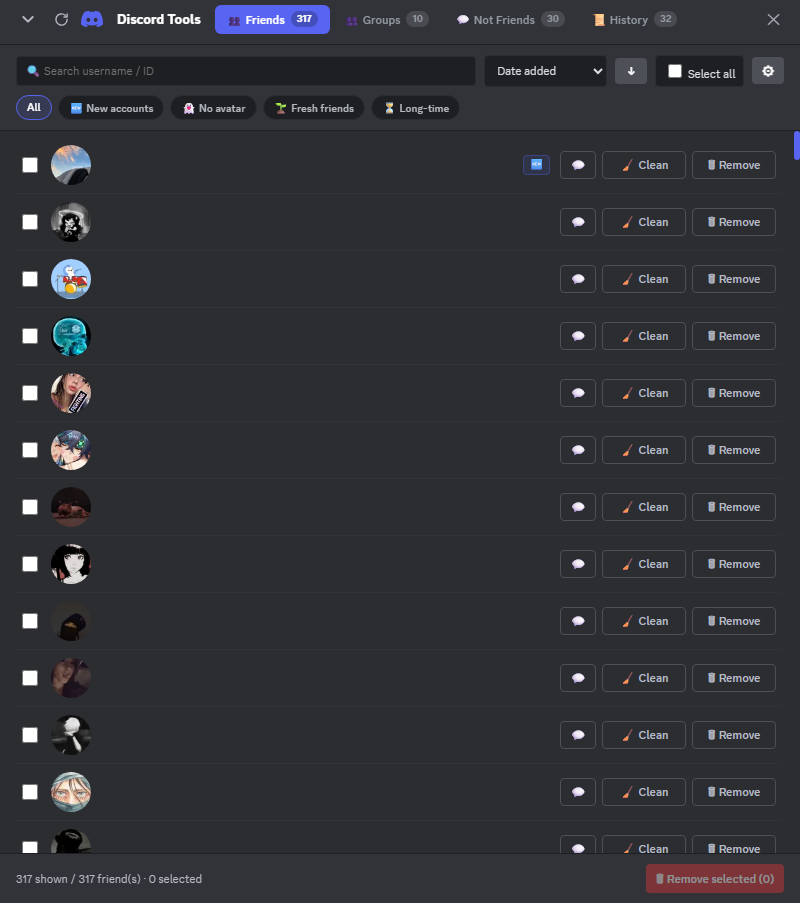
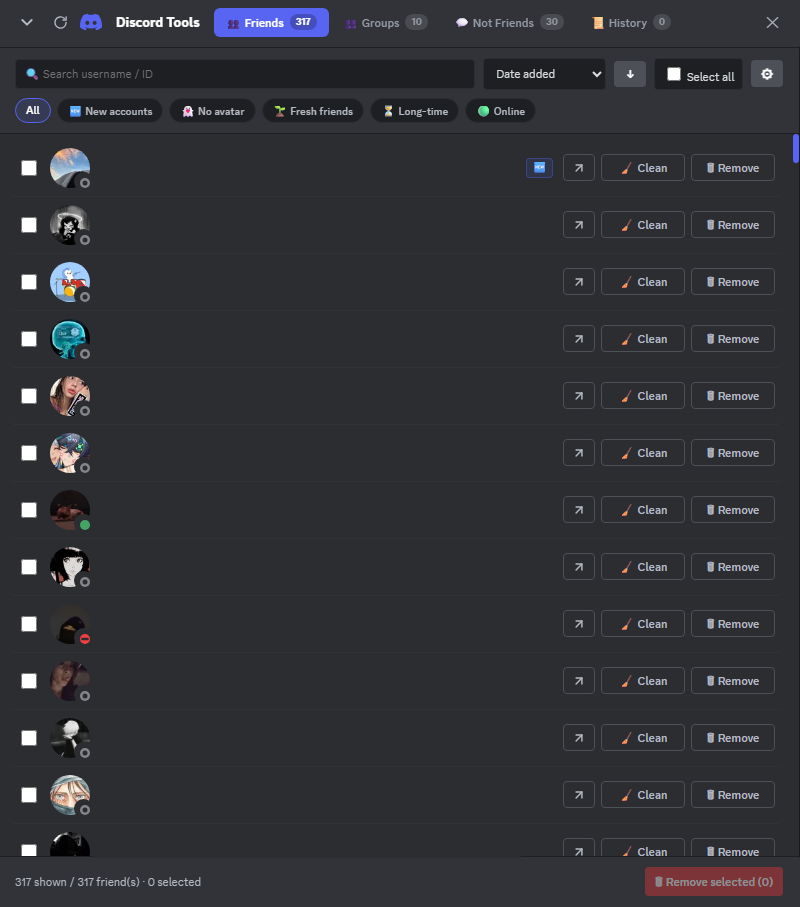
Update

diff --git a/README.md b/README.md
@@ -21,19 +21,26 @@ Clean friends, groups, and DMs — all from a sleek, native-looking panel.
 
 ### 👥 Friends Manager
 - List, search, sort, and filter all your friends
-- Badges for new accounts, fresh friends, long-time friends, no-avatar
+- **Live presence dots** (🟢 Online · 🟡 Idle · 🔴 DND · ⚫ Offline) directly on avatars, refreshed every 15 s
+- Filter chips: All · 🆕 New accounts · 👻 No avatar · 🌱 Fresh friends · ⏳ Long-time · 🟢 Status (cycles online → idle → dnd → offline)
+- Advanced filters: added-after / added-before date range, avatar type (default/custom)
+- Sort by: date added, name, account created, last DM
 - Remove individually or in bulk
 - Optional: clean your DM messages before removing
 - Optional: auto-close the DM in the sidebar
+- Click avatar/name to view profile, or ↗ to open the DM
 
 </td>
 <td width="50%">
 
 ### 👥 Groups Manager
-- List all your group DMs
-- Filter by Solo, Named, Inactive, Recent, Old
-- Leave individually or in bulk (silent mode supported)
-- Optional: delete your messages before leaving
+- List all your group DMs (owned & joined)
+- Filter chips: All · 👤 Solo · ✏ Named · 💤 Inactive (90+ d) · 🆕 Recent · ⏳ Old
+- Advanced filters: created-after / created-before date range, icon type
+- Sort by: date created, last activity, name, members
+- Leave individually or in bulk
+- **🔇 Silent mode** — leave without notifying other members
+- Optional: delete your messages *before* leaving
 
 </td>
 </tr>
@@ -42,17 +49,21 @@ Clean friends, groups, and DMs — all from a sleek, native-looking panel.
 
 ### 💬 Not Friends
 - All DMs from people who aren't in your friend list
-- 3 filters: **With my messages** / **Without my messages** / **Empty**
-- Deep scan to detect truly empty conversations
-- Clean + close in one click
+- Filter chips: All · 💬 With my messages *(click again to toggle to 🚫 Without my messages)* · 📭 Empty · 🆕 New accounts · 👻 No avatar · 🟢 Status
+- **Deep scan** of every conversation to count your messages and detect truly empty threads
+- Live progress bar during the scan (controls locked while running)
+- Clean + close in one click, individually or in bulk
+- Badges: 🆕 new account · 👻 no avatar · 💬 N msgs from you · 📭 truly empty · 💤 you never replied
 
 </td>
 <td width="50%">
 
-### 📜 History
-- Logs every friend removed, group left, DM cleaned
-- Search, filter by type, clear all
-- Session-only storage (cleared on page refresh)
+### 📜 Universal History
+- Logs every friend removed, group left, non-friend DM cleaned
+- Search by name/ID, filter by type (👤 Friends / 👥 Groups / 💬 Not-friends)
+- Live stats: per-kind counts + total messages deleted
+- Shows context per entry: friend since, silent leave, DM closed, messages deleted…
+- Clear all with confirmation
 
 </td>
 </tr>
@@ -63,10 +74,11 @@ Clean friends, groups, and DMs — all from a sleek, native-looking panel.
 ## 🎨 Highlights
 
 - **Native Discord look** — same fonts, colors, and interactions
-- **Floating draggable window** — minimize, move, reload
-- **Adaptive rate-limit handling** — no manual cooldowns
-- **Live progress bars** — global counter + per-conversation clean tracker
-- **Loading modal** with progress on startup
+- **Floating draggable window** — collapse, move, reload, close
+- **Adaptive rate-limit handling** — smart backoff, no manual cooldowns
+- **Live progress bars** — global counter (red/blue) + per-conversation secondary tracker
+- **Loading modal** with smooth progress on startup
+- **Native-style profile modals** fallback (webpack `USER_PROFILE_MODAL_OPEN` dispatch, or deep-link to `discord://`)
 - **Zero dependencies** — pure vanilla JavaScript
 
 ---
@@ -95,10 +107,12 @@ Clean friends, groups, and DMs — all from a sleek, native-looking panel.
 
 ## ⚙ How it works
 
-- Extracts your Discord token from **localStorage** or via **webpack modules**
+- Extracts your Discord token from **localStorage** or via **webpack modules** (`getToken()`)
+- Reads presence status from Discord's **Flux PresenceStore** (validated empirically via `getStatus('000…0') === 'offline'`)
 - Uses the official Discord API (`/api/v10`) with proper rate-limit handling
 - All operations happen client-side — nothing is sent anywhere else
-- Preferences stored in `localStorage`, history in `window.name` (session-only)
+- **Preferences** stored in `localStorage` (sorts, chips, active tab…)
+- **History** stored in `window.name` (survives page reloads within the same tab, cleared when the tab is closed)
 
 ---
 
